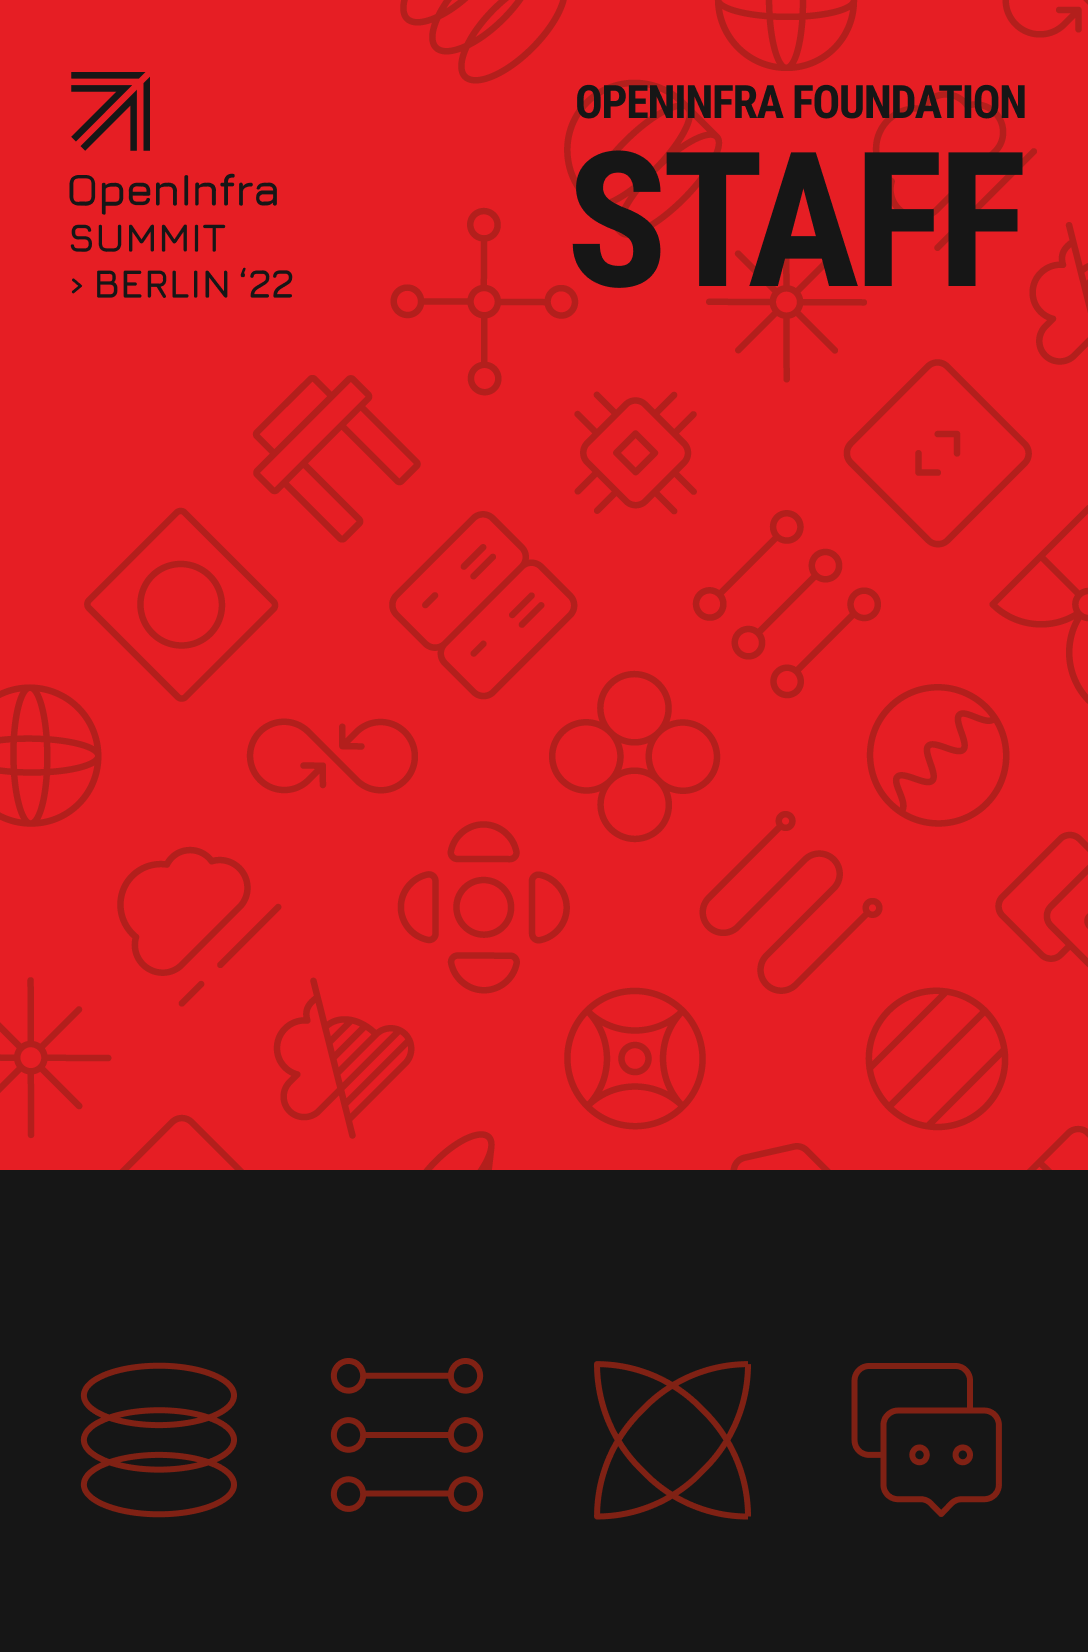
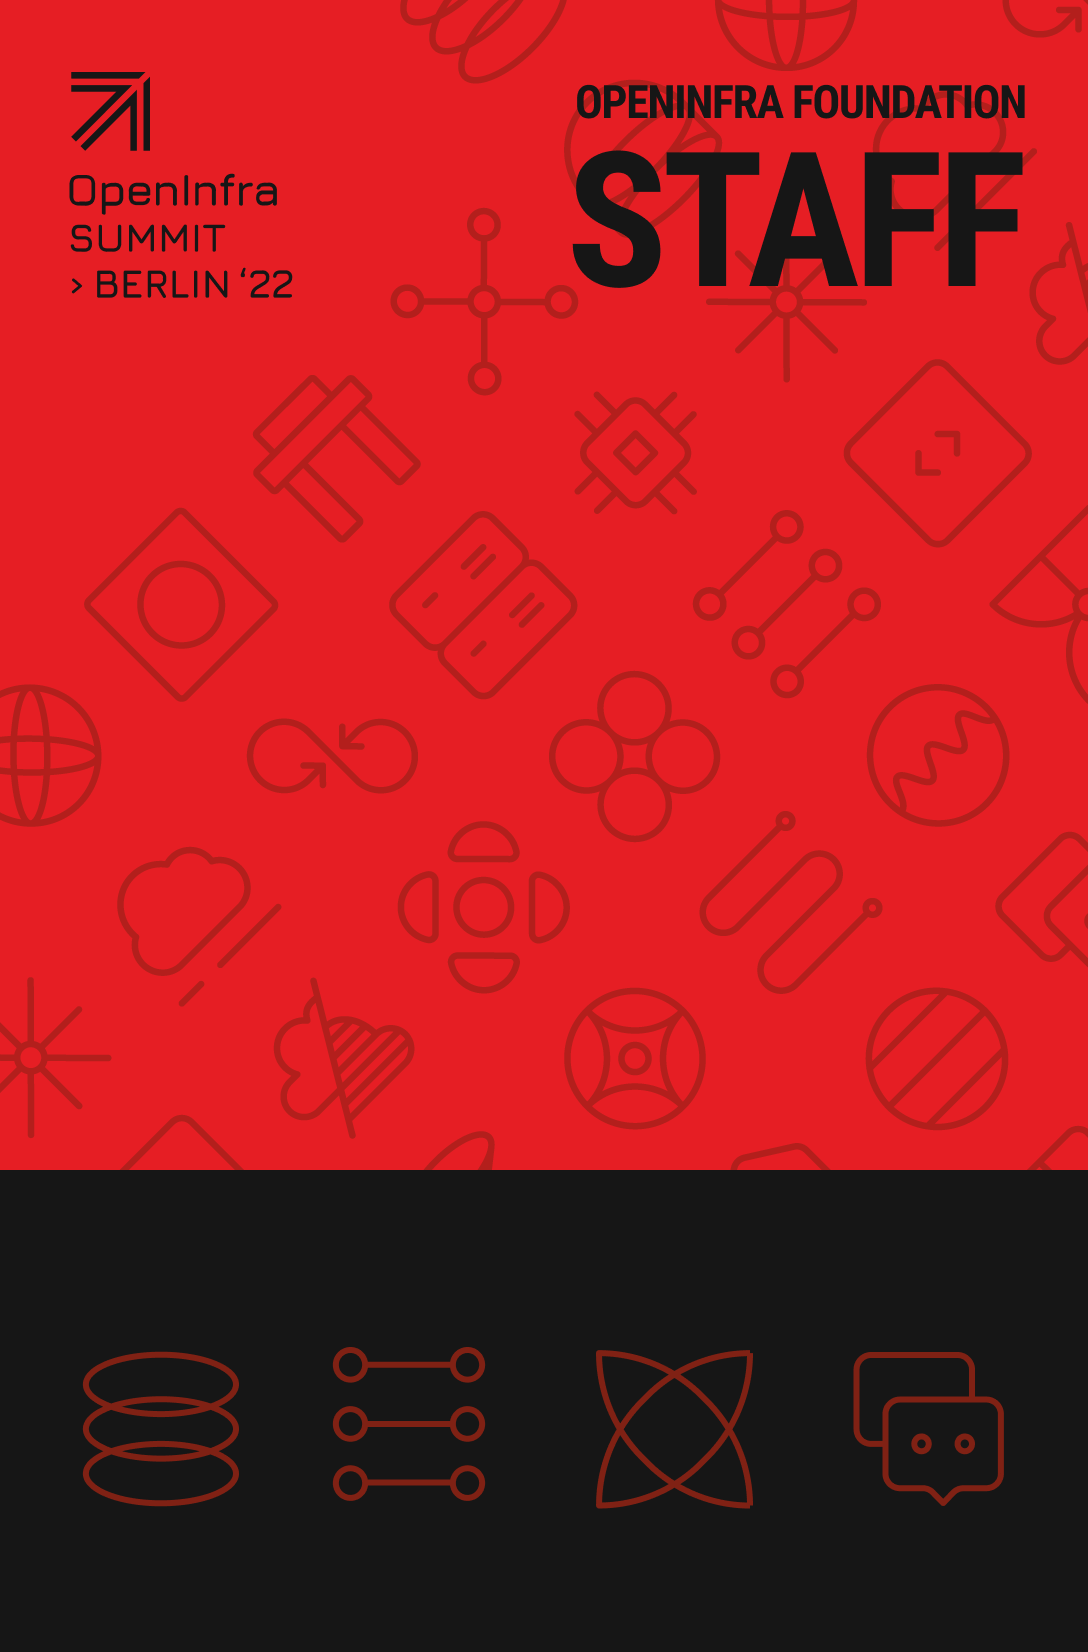
Fixes badge placements.

diff --git a/src/badge_templates/berlin-2022/shared/styles/styles_1.less b/src/badge_templates/berlin-2022/shared/styles/styles_1.less
@@ -81,10 +81,9 @@
 .features {
 		position: absolute;
 		width: 100%;
-		bottom: 31px;
+		bottom: 33px;
 		padding: 0 11px;
 		display: flex;
-		justify-content: center;
 		img {
 			height: 72px !important;
 			width: 72px;
